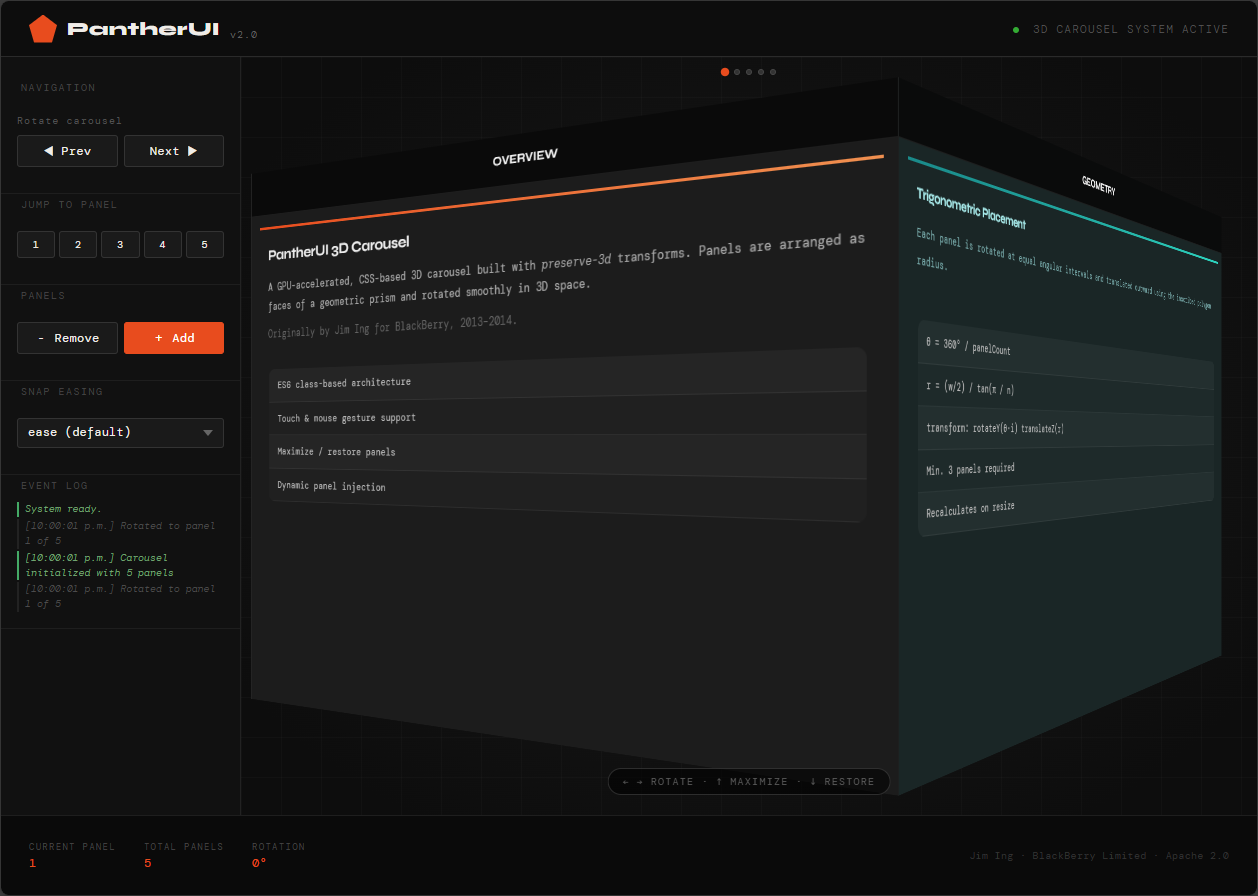
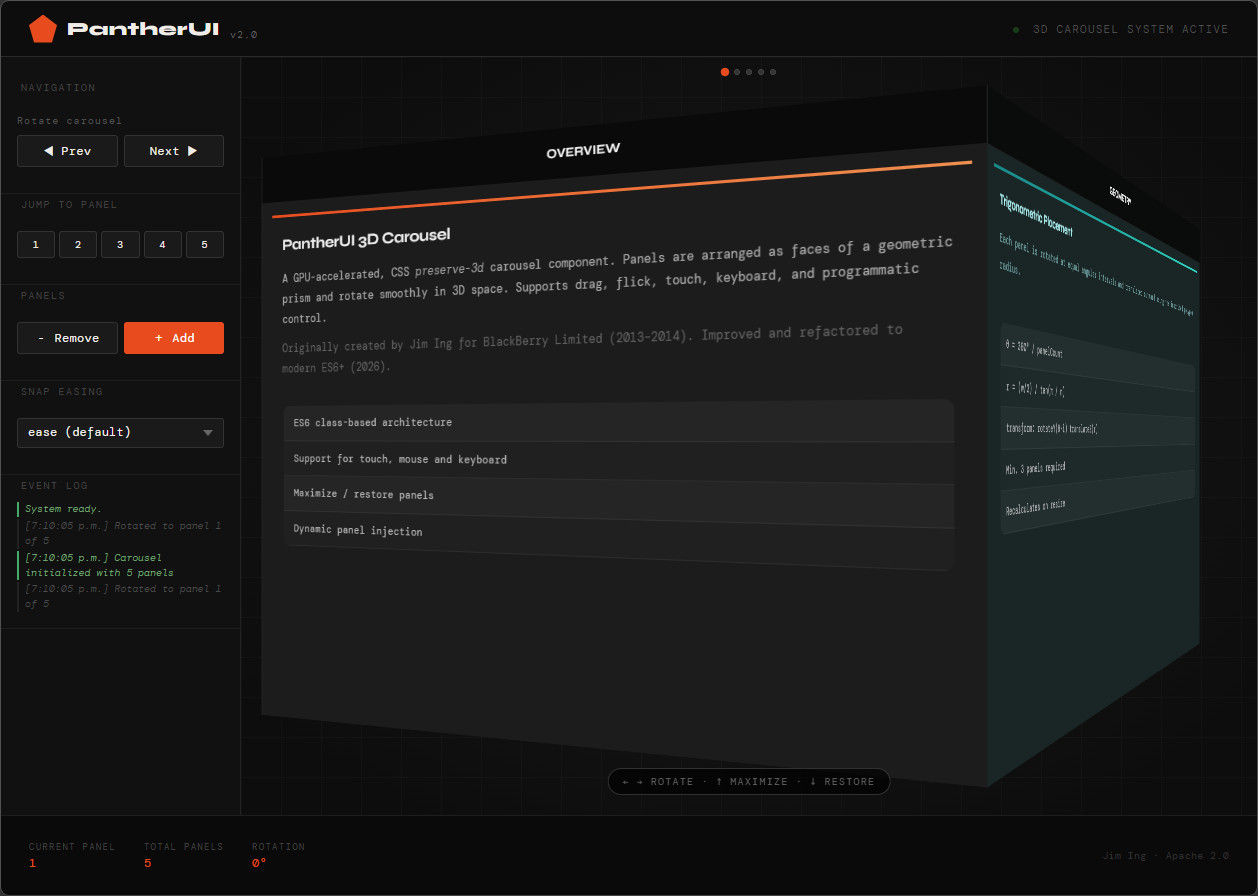
Updated screenshots

diff --git a/worlddash.md b/worlddash.md
@@ -1,6 +1,12 @@
 # WorldDash
 
-A Progressive Web App that displays live weather and world clocks for up to four cities simultaneously. Each city gets a 3D rotating carousel (powered by PantherUI) with five panels: clock, current weather, hourly forecast, daily forecast, and alerts.
+A Progressive Web App that displays world clocks with live weather for up to four cities simultaneously. Each city gets a 3D rotating carousel (powered by PantherUI) with five panels: clock, current weather, hourly forecast, daily forecast, and alerts.
+
+![World clocks](worldash1.png)
+![Current weather](worldash2.png)
+![Hourly forecast](worldash3.png)
+![Daily forecast](worldash4.png)
+![Settings](worldash6.png)
 
 ---
 

diff --git a/README.md b/README.md
@@ -2,9 +2,19 @@
 
 A lightweight 3D carousel UI component library. Panels rotate on a CSS `rotateY` cylinder using the Pointer Events API for unified mouse, touch, and stylus input.
 
-Originally by Jim Ing (@jim_ing) for BlackBerry Limited (2013–2014). Refactored to modern ES6+ (2024).
+![Screenshot](screenshot.png)
+
+Originally by Jim Ing (@jim_ing) for BlackBerry Limited (2013–2014). Refactored to modern ES6+ (2026).
 
 Licensed under the [Apache License 2.0](https://www.apache.org/licenses/LICENSE-2.0).
+
+---
+
+### Demos
+
+- [Full](demo.html)
+- [Basic](demo-basic.html)
+- [WorldDash](worlddash.html) - displays world clocks with live weather for up to four cities
 
 ---
 
